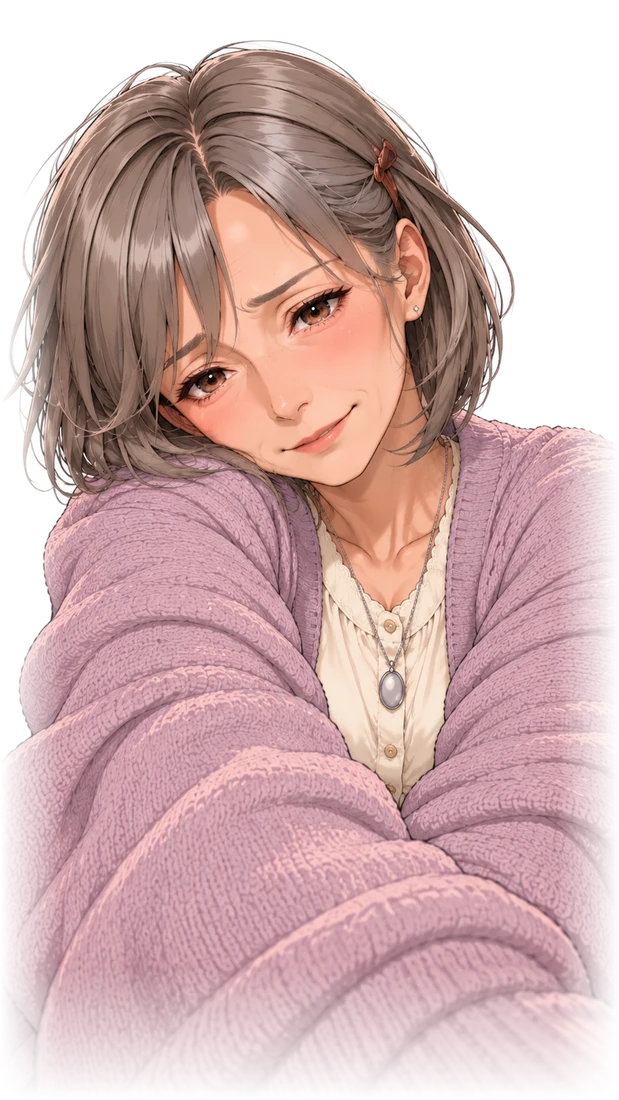
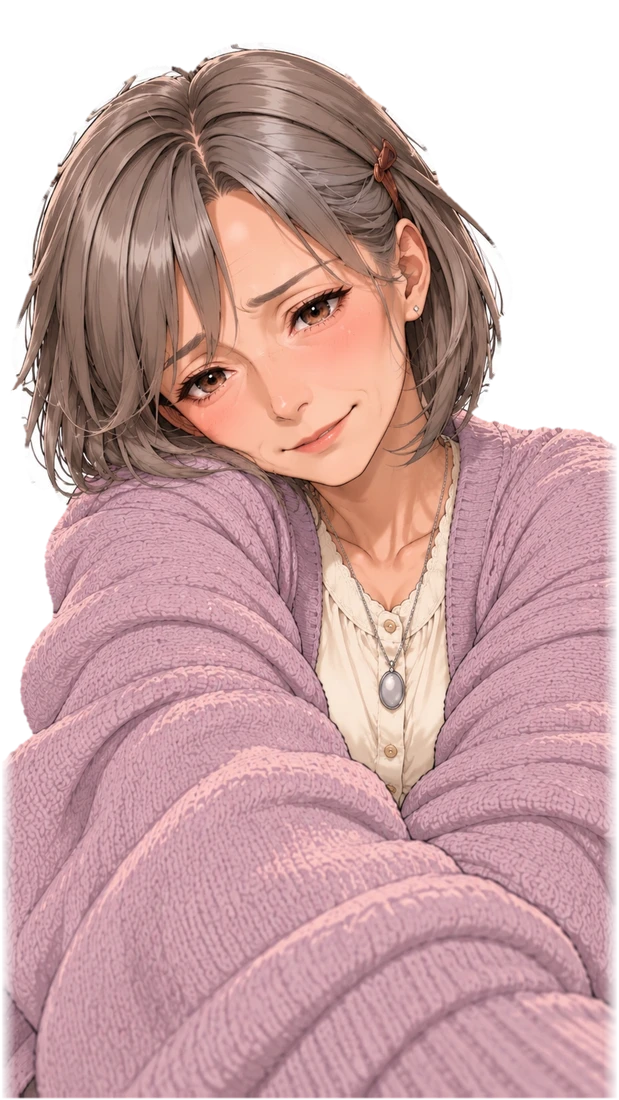
Margaret hugs: solid, no fade, no blur, clean cut-outs
Claude-Session: https://claude.ai/code/session_01PiQbiDdHzkNFQqS3tJ9L5K

diff --git a/css/game.css b/css/game.css
@@ -1182,10 +1182,10 @@ html[lang=ar] .jn-photo p{font-family:var(--f-ar-ui);font-size:14px}
 @media (prefers-reduced-motion:reduce){.sc-arrow{animation:none}}
 
 /* margaret-deep.js: a full-screen picture */
-.md-cg{position:absolute;inset:0;z-index:30;display:flex;align-items:flex-end;justify-content:center;background:radial-gradient(ellipse at 50% 45%,rgba(0,0,0,0) 30%,rgba(8,6,10,.55));opacity:0;transition:opacity .6s;cursor:pointer}
+.md-cg{position:absolute;inset:0;z-index:30;display:flex;align-items:flex-end;justify-content:center;background:rgba(0,0,0,.18);backdrop-filter:none;-webkit-backdrop-filter:none;opacity:0;transition:opacity .6s;cursor:pointer}
 .md-cg.on{opacity:1}#stage.cg-on .chars,#stage.cg-on .spots{opacity:0;transition:opacity .4s}.md-cg.out{opacity:0;transition:opacity .4s}
 .md-cg i{display:none}
-.md-cg img{position:relative;height:112%;max-width:100%;object-fit:contain;object-position:bottom;margin-bottom:-12%;animation:mdIn 6s ease-out both}
+.md-cg img{position:relative;height:112%;max-width:100%;object-fit:contain;object-position:bottom;margin-bottom:-12%;filter:drop-shadow(0 6px 18px rgba(0,0,0,.35));animation:mdIn 6s ease-out both}
 .md-cg p{position:absolute;z-index:1;bottom:6%;left:50%;transform:translateX(-50%);width:min(80%,560px);margin:0;padding:10px 16px;border-radius:12px;background:rgba(0,0,0,.6);color:#f6ecd8;text-align:center;font-size:clamp(14px,2.2vw,18px)}
 @keyframes mdIn{from{transform:scale(1.06)}to{transform:scale(1)}}
 @media (prefers-reduced-motion:reduce){.md-cg img{animation:none}}
